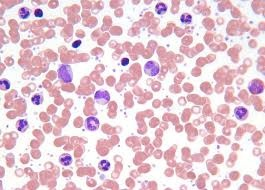
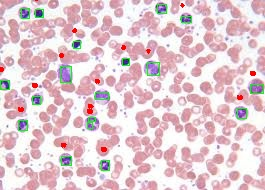
Improved selection and added additional diagrams showing the individual steps to ease understanding

diff --git a/NucleiCounter.py b/NucleiCounter.py
@@ -2,36 +2,81 @@ import cv2
 import numpy as np
 import os
 
+#region Variables to change scripts functionality
+
+# Define image path and extract image name and file type
+image_path = "sample2.jpg"  # Change to your image path
+imageName, fileType = os.path.splitext(os.path.basename(image_path))
+
+printAllCircledNuclei = True # do you want to print all highlighted nuclei or filter out small ones?
+cleanMask = True # do you want to clean the mask (eg auto filter out small areas from being included in the count)?
+
+#endregion
+
 #region Functions
 
 # Function to update the mask with trackbar values
 def update_mask(x):
     try:
-        # Get trackbar positions
+        # Get trackbar positions only if the window is still open
+        if cv2.getWindowProperty("Mask", cv2.WND_PROP_VISIBLE) >= 1:
+            h_min = cv2.getTrackbarPos("Hue Min", "Mask")
+            h_max = cv2.getTrackbarPos("Hue Max", "Mask")
+            s_min = cv2.getTrackbarPos("Sat Min", "Mask")
+            s_max = cv2.getTrackbarPos("Sat Max", "Mask")
+            v_min = cv2.getTrackbarPos("Val Min", "Mask")
+            v_max = cv2.getTrackbarPos("Val Max", "Mask")
+
+            # Apply threshold based on current trackbar positions
+            lower_purple = np.array([h_min, s_min, v_min])
+            upper_purple = np.array([h_max, s_max, v_max])
+            mask = cv2.inRange(hsv_image, lower_purple, upper_purple)
+
+            # Display the mask
+            cv2.imshow("Mask", mask)
+
+            # Create a blank image to draw color squares
+            color_square = np.zeros((100, 300, 3), dtype=np.uint8)
+
+            # Draw minimum value square (using the actual min HSV values)
+            color_square[:, :100] = cv2.cvtColor(np.uint8([[lower_purple]]), cv2.COLOR_HSV2BGR)[0][0]  # Min HSV color
+            cv2.putText(color_square, f"Min HSV", (10, 50), cv2.FONT_HERSHEY_SIMPLEX, 0.5, (255, 255, 255), 1)
+
+            # Draw maximum value square (using the actual max HSV values)
+            color_square[:, 200:] = cv2.cvtColor(np.uint8([[upper_purple]]), cv2.COLOR_HSV2BGR)[0][0]  # Max HSV color
+            cv2.putText(color_square, f"Max HSV", (210, 50), cv2.FONT_HERSHEY_SIMPLEX, 0.5, (255, 255, 255), 1)
+
+            # Show the color squares
+            cv2.imshow("Value Indicators", color_square)
+
+    except Exception as e:
+        print(f"Error updating mask: {e}")
+
+def done_callback():
+    """Function to handle cleanup and show final values when done."""
+    # Check if the windows are still open before accessing trackbars
+    if cv2.getWindowProperty("Mask", cv2.WND_PROP_VISIBLE) >= 1:
+        # Read final HSV values from trackbars
         h_min = cv2.getTrackbarPos("Hue Min", "Mask")
         h_max = cv2.getTrackbarPos("Hue Max", "Mask")
         s_min = cv2.getTrackbarPos("Sat Min", "Mask")
         s_max = cv2.getTrackbarPos("Sat Max", "Mask")
         v_min = cv2.getTrackbarPos("Val Min", "Mask")
         v_max = cv2.getTrackbarPos("Val Max", "Mask")
-        
-        # Apply threshold based on current trackbar positions
+
+        # Set the lower and upper bounds for masking using trackbar values
         lower_purple = np.array([h_min, s_min, v_min])
         upper_purple = np.array([h_max, s_max, v_max])
-        mask = cv2.inRange(hsv_image, lower_purple, upper_purple)
         
-        # Display the mask
-        cv2.imshow("Mask", mask)
-    except Exception as e:
-        print(f"Error updating mask: {e}")
+        print(f"Final HSV Min: [{h_min}, {s_min}, {v_min}]")
+        print(f"Final HSV Max: [{h_max}, {s_max}, {v_max}]")
+
+    # Close all windows
+    cv2.destroyAllWindows()
 
 #endregion
 
 #region Main script
-
-# Define image path and extract image name and file type
-image_path = "sample2.jpg"  # Change to your image path
-imageName, fileType = os.path.splitext(os.path.basename(image_path))
 
 # Load the image
 image = cv2.imread(image_path)
@@ -41,37 +86,75 @@ if image is None:
     print(f"Error: Could not load image at {image_path}")
     exit()
 
+# Display the input image
+cv2.imshow("Input Image", image)
+cv2.waitKey(0)
+
 # Convert to HSV color space
 hsv_image = cv2.cvtColor(image, cv2.COLOR_BGR2HSV)
 
+# Display the HSV image for debugging
+cv2.imshow("HSV Image", hsv_image)
+cv2.waitKey(0)
+
 # Create a resizable window and trackbars for adjusting HSV ranges
 cv2.namedWindow("Mask", cv2.WINDOW_NORMAL)  # Make window resizable
-cv2.createTrackbar("Hue Min", "Mask", 120, 180, update_mask)
-cv2.createTrackbar("Hue Max", "Mask", 160, 180, update_mask)
-cv2.createTrackbar("Sat Min", "Mask", 50, 255, update_mask)
+cv2.createTrackbar("Hue Min", "Mask", 0, 179, update_mask)
+cv2.createTrackbar("Hue Max", "Mask", 179, 179, update_mask)
+cv2.createTrackbar("Sat Min", "Mask", 0, 255, update_mask)
 cv2.createTrackbar("Sat Max", "Mask", 255, 255, update_mask)
-cv2.createTrackbar("Val Min", "Mask", 20, 255, update_mask)
-cv2.createTrackbar("Val Max", "Mask", 100, 255, update_mask)
+cv2.createTrackbar("Val Min", "Mask", 0, 255, update_mask)
+cv2.createTrackbar("Val Max", "Mask", 255, 255, update_mask)
+
+# Create a resizable window for the value indicators
+cv2.namedWindow("Value Indicators", cv2.WINDOW_NORMAL)  # Make window resizable
 
 # Initial mask display
 update_mask(0)
 
-# Wait for user to adjust trackbars before proceeding
-cv2.waitKey(0)
+# Main loop to wait for user input
+while True:
+    key = cv2.waitKey(1)  # Wait for key press, 1 ms delay
+    if key == ord('d'):  # If 'd' key is pressed, finalize and exit
+        # getting the thresholds before closing the window
+        lower_purple = np.array([cv2.getTrackbarPos("Hue Min", "Mask"),
+            cv2.getTrackbarPos("Sat Min", "Mask"),
+            cv2.getTrackbarPos("Val Min", "Mask")])
+        upper_purple = np.array([cv2.getTrackbarPos("Hue Max", "Mask"),
+            cv2.getTrackbarPos("Sat Max", "Mask"),
+            cv2.getTrackbarPos("Val Max", "Mask")])
+        done_callback()
+        break
+    elif key == 27:  # ESC key to exit
+        cv2.destroyAllWindows()
+        exit()
 
-# Once the appropriate HSV values are determined, generate the mask
-lower_purple = np.array([120, 50, 20])  # Use values from trackbars for fine-tuning
-upper_purple = np.array([160, 255, 100])
+# Get the lower_purple and upper_purple hsv values from the trackbars
+# Moved this part into done_callback to ensure window is open
+# Removed the redundant code since it's handled in done_callback
 
-# Threshold the image to create a binary mask for dark purple regions
+# Threshold the image to create a binary mask for purple regions
 mask = cv2.inRange(hsv_image, lower_purple, upper_purple)
 
+
+
+
+
 # Optional: Morphological opening to reduce small noise in mask
-kernel = np.ones((3, 3), np.uint8)
-cleaned_mask = cv2.morphologyEx(mask, cv2.MORPH_OPEN, kernel, iterations=1)
+# MODIFY THIS EG IF YOU WANT SMALL ONES, AS NUCLEI MAY BE VERY SMALL SO WE MAY NOT WANT TO REMOVE THEM
+if(cleanMask):
+    kernel = np.ones((0, 0), np.uint8)
+    cleaned_mask = cv2.morphologyEx(mask, cv2.MORPH_OPEN, kernel, iterations=1)
+else:
+    cleaned_mask = mask # quick and dirty if you just want to keep it the same
+
+
+
+
+
 
 # Display the mask for debugging
-cv2.imshow("Nuclei Mask", cleaned_mask)
+cv2.imshow("Cleaned Mask", cleaned_mask)
 cv2.waitKey(0)
 
 # Use connected components to label each detected nucleus in the mask
@@ -80,9 +163,9 @@ num_labels, labels, stats, centroids = cv2.connectedComponentsWithStats(cleaned_
 # Draw bounding boxes around detected nuclei and label each one
 for i in range(1, num_labels):  # Skip the background label (label 0)
     x, y, w, h, area = stats[i]
-    if 50 < area < 1000:  # Filter nuclei based on area
-        cv2.rectangle(image, (x, y), (x + w, y + h), (0, 255, 0), 2)
-        cv2.putText(image, str(i), (x, y - 10), cv2.FONT_HERSHEY_SIMPLEX, 0.5, (0, 0, 255), 2)
+    if printAllCircledNuclei or 50 < area < 1000:  # Filter nuclei based on area
+        cv2.rectangle(image, (x, y), (x + w, y + h), (0, 255, 0), 1)
+        cv2.putText(image, str(i), (x, y - 10), cv2.FONT_HERSHEY_SIMPLEX, 0.1, (0, 0, 255), 2)
 
 # Construct the output filename using imageName and fileType
 output_filename = f"{imageName}_labeled{fileType}"
@@ -96,4 +179,3 @@ cv2.imshow("Labeled Nuclei", image)
 cv2.waitKey(0)
 cv2.destroyAllWindows()
 
-#endregion
